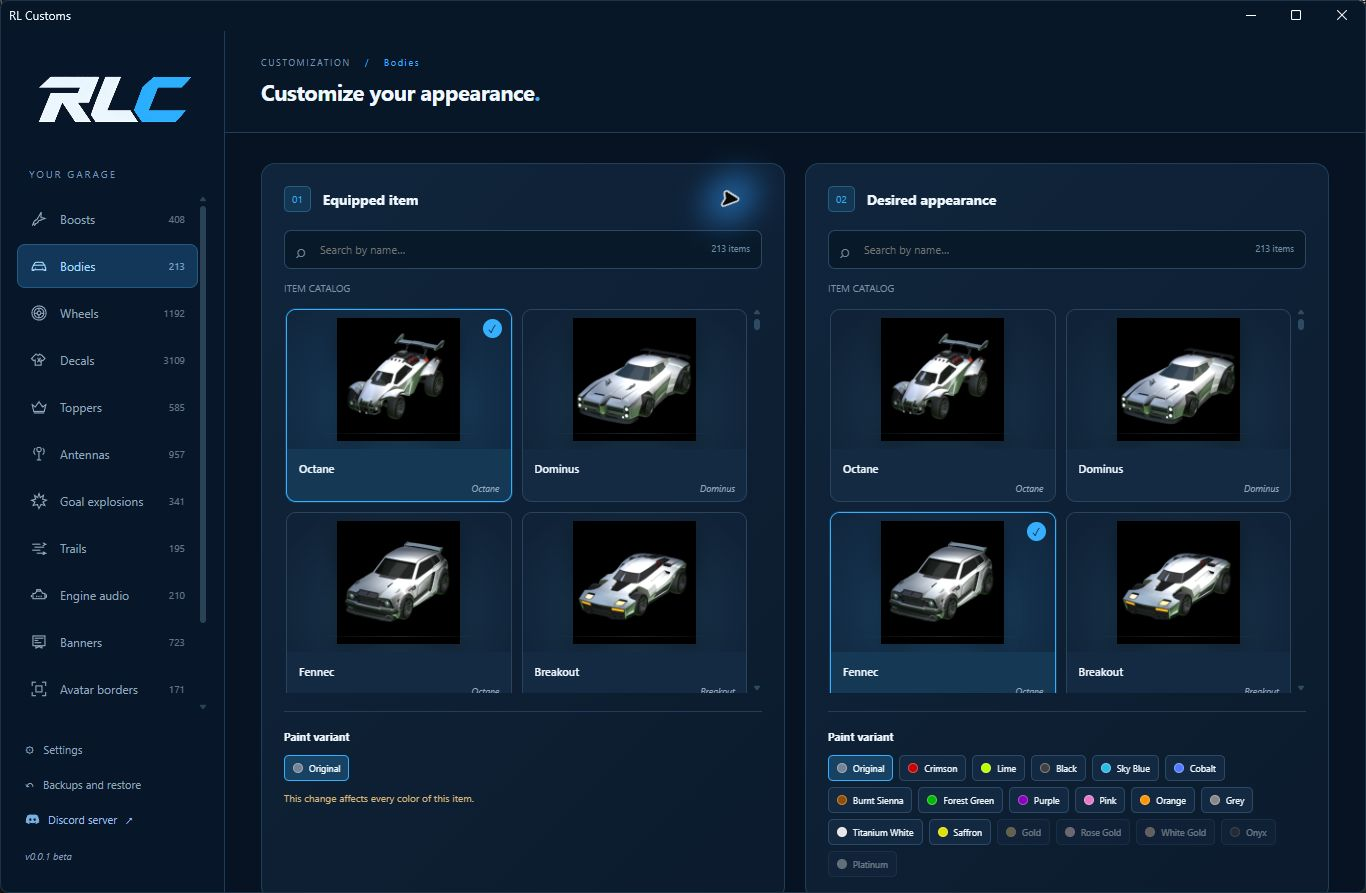
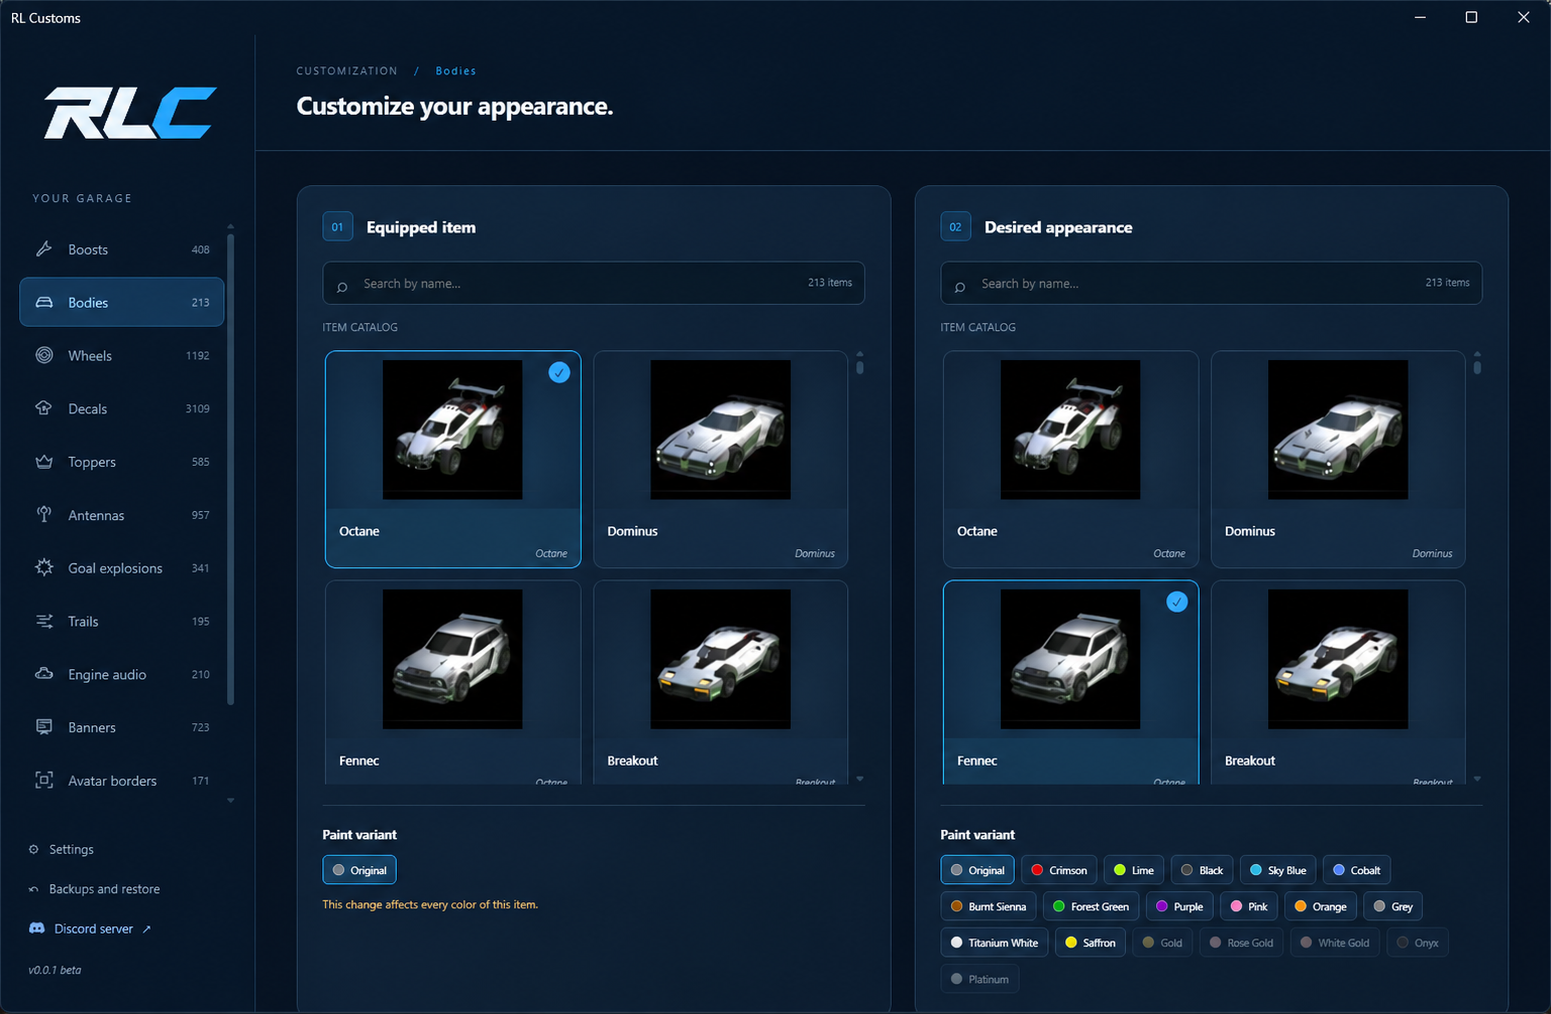
Remove cursor and glow from interface screenshot

diff --git a/README.md b/README.md
@@ -38,7 +38,7 @@
 Browse cars, boosts, wheels, decals and more. Pick the item you have equipped, choose the appearance you want to see and preview your selection before applying it.
 
 <p align="center">
-  <img src="https://raw.githubusercontent.com/cortexstudiosinfo/RL-Customs/2fccff57ac47aad6faa156123f2ea6364ab96be4/interface.png" alt="The RL Customs interface" width="100%">
+  <img src="interface.png" alt="The RL Customs interface" width="100%">
 </p>
 
 ### Made for your style
